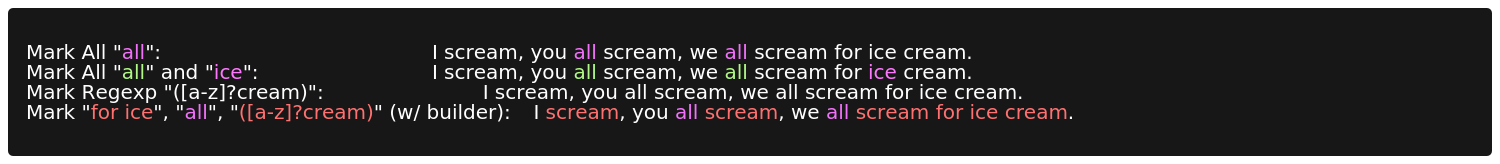
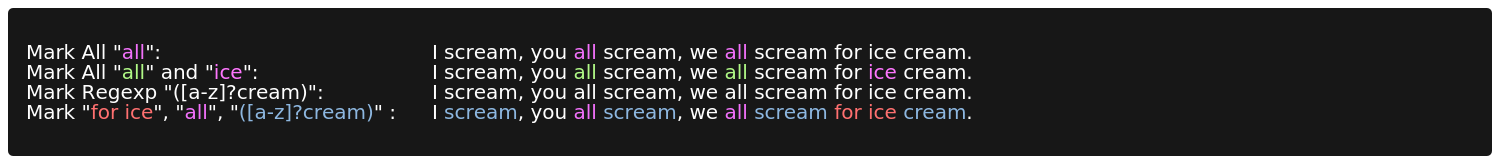
readme tidy up, log terminal images updated

Changed region(s): [[0.1533, 0.6402, 0.736, 0.7317], [0.276, 0.5183, 0.6747, 0.6098]]

diff --git a/examples/showoff/main.go b/examples/showoff/main.go
@@ -2,9 +2,10 @@ package main
 
 import (
 	"fmt"
+	"regexp"
+
 	"github.com/cyucelen/marker"
 	"github.com/fatih/color"
-	"regexp"
 )
 
 var magentaFg = color.New(color.FgMagenta)
@@ -30,16 +31,16 @@ func main() {
 
 	r, _ := regexp.Compile("([a-z]?cream)")
 	markedWithRegexp := marker.Mark(rhyme, marker.MatchRegexp(r), whiteFg.Add(color.BgHiBlue))
-	regexpExampleHeader := fmt.Sprintf("Mark Regexp \"%s\":\t\t\t\t", whiteFg.Add(color.BgHiBlue).Sprint("([a-z]?cream)"))
+	regexpExampleHeader := fmt.Sprintf("Mark Regexp \"%s\":\t\t\t", whiteFg.Add(color.BgHiBlue).Sprint("([a-z]?cream)"))
 	fmt.Println(regexpExampleHeader + markedWithRegexp)
 
 	b := &marker.MarkBuilder{}
 	markedWithBuilder := b.SetString(rhyme).
 		Mark(marker.MatchN("for ice", 1), redFg).
 		Mark(marker.MatchAll("all"), magentaFg).
-		Mark(marker.MatchRegexp(r), redFg.Add(color.BgHiWhite)).
+		Mark(marker.MatchRegexp(r), blueFg).
 		Build()
-	builderExampleHeader := fmt.Sprintf("Mark \"%s\", \"%s\", \"%s\" (w/ builder):\t",
-		color.New(color.FgRed).Sprint("for ice"), magentaFg.Sprint("all"), redFg.Add(color.BgHiWhite).Sprint("([a-z]?cream)"))
+	builderExampleHeader := fmt.Sprintf("Mark \"%s\", \"%s\", \"%s\" :\t",
+		color.New(color.FgRed).Sprint("for ice"), magentaFg.Sprint("all"), blueFg.Sprint("([a-z]?cream)"))
 	fmt.Println(builderExampleHeader + markedWithBuilder)
 }

diff --git a/examples/logtofile/main.go b/examples/logtofile/main.go
@@ -2,33 +2,51 @@ package main
 
 import (
 	"bufio"
+	"bytes"
+	"fmt"
 	"log"
 	"os"
+	"os/exec"
 
 	"github.com/cyucelen/marker"
 	"github.com/fatih/color"
 )
 
 var (
-	redFg  = color.New(color.FgRed)
-	blueFg = color.New(color.FgBlue)
+	magentaFg = color.New(color.FgMagenta)
+	blueFg    = color.New(color.FgBlue)
 )
 
 func main() {
-	f, _ := os.Create("/tmp/dat2")
-	defer f.Close()
+	f, _ := os.Create("/tmp/awesome.log")
 	w := bufio.NewWriter(f)
-	defer w.Flush()
 
 	writeMarker := marker.NewWriteMarker(w)
 
 	markRules := []marker.MarkRule{
 		{marker.MatchBracketSurrounded(), blueFg},
-		{marker.MatchAll("marker"), redFg},
+		{marker.MatchAll("marker"), magentaFg},
 	}
 
 	writeMarker.AddRules(markRules)
 
 	logger := log.New(writeMarker, "", 0)
-	logger.Println("[INFO] marker is working as expected")
+	logger.Println("[INFO] colorful logs even in files, marker to mark them all!")
+
+	w.Flush()
+	f.Close()
+
+	output := catFile("/tmp/awesome.log") // cat /tmp/dat2
+	fmt.Print(output)
+}
+
+func catFile(file string) string {
+	cmd := exec.Command("cat", file)
+	cmdOutput := &bytes.Buffer{}
+	cmd.Stdout = cmdOutput
+	err := cmd.Run()
+	if err != nil {
+		log.Fatalf("cmd.Run() failed with %s\n", err)
+	}
+	return string(cmdOutput.Bytes())
 }

diff --git a/README.md b/README.md
@@ -44,54 +44,54 @@ Marker has very simple and extensible way to get your strings colorful and brill
 
 #### MatchAll
 ```go
-  aristotleQuote := "The more you know, the more you realize you don't know."
-  emphasized := marker.Mark(aristotleQuote, marker.MatchAll("know"), color.New(color.FgRed))
-  fmt.Println(emphasized)
+aristotleQuote := "The more you know, the more you realize you don't know."
+emphasized := marker.Mark(aristotleQuote, marker.MatchAll("know"), color.New(color.FgRed))
+fmt.Println(emphasized)
 ```
 <img src="assets/png/matchall.png">
 
 #### MatchN
 ```go
-  boringLog := "[INFO] Nobody wants to read pale [INFO] tags."
-  brilliantLog := marker.Mark(boringLog, marker.MatchN("[INFO]", 1), color.New(color.FgBlue))
-  fmt.Println(brilliantLog)
+boringLog := "[INFO] Nobody wants to read pale [INFO] tags."
+brilliantLog := marker.Mark(boringLog, marker.MatchN("[INFO]", 1), color.New(color.FgBlue))
+fmt.Println(brilliantLog)
 ```
 <img src="assets/png/matchn.png">
 
 #### MatchRegexp
 
 ```go
-  rhyme := "I scream, you all scream, we all scream for ice cream."
-  r, _ := regexp.Compile("([a-z]?cream)")
-  careAboutCream := marker.Mark(rhyme, marker.MatchRegexp(r), color.New(color.FgYellow))
-  fmt.Println(careAboutCream)
+rhyme := "I scream, you all scream, we all scream for ice cream."
+r, _ := regexp.Compile("([a-z]?cream)")
+careAboutCream := marker.Mark(rhyme, marker.MatchRegexp(r), color.New(color.FgYellow))
+fmt.Println(careAboutCream)
 ```
 <img src="assets/png/matchregex.png">
 
 #### MatchSurrounded
 
 ```go
-	sentence := "I pull out things surrounded by abcWHOA COLORSdef"
-	markedSurrounded := marker.Mark(sentence, marker.MatchSurrounded("abc", "def"), magentaFg)
-	fmt.Println(markedSurrounded)
+sentence := "I pull out things surrounded by abcWHOA COLORSdef"
+markedSurrounded := marker.Mark(sentence, marker.MatchSurrounded("abc", "def"), magentaFg)
+fmt.Println(markedSurrounded)
 ```
 <img src="assets/png/matchsurrounded1.png">
 
 #### MatchBracketSurrounded
 
 ```go
-	sentence = "[INFO] This is what log lines look like"
-	markedSurrounded = marker.Mark(sentence, marker.MatchBracketSurrounded(), redFg)
-	fmt.Println(markedSurrounded)
+sentence = "[INFO] This is what log lines look like"
+markedSurrounded = marker.Mark(sentence, marker.MatchBracketSurrounded(), redFg)
+fmt.Println(markedSurrounded)
 ```
 <img src="assets/png/matchsurrounded2.png">
 
 #### MatchParensSurrounded
 
 ```go
-	sentence = "[ERROR] This is what (parens) lines look like"
-	markedSurrounded = marker.Mark(sentence, marker.MatchParensSurrounded(), blueFg)
-	fmt.Println(markedSurrounded)
+sentence = "[ERROR] This is what (parens) lines look like"
+markedSurrounded = marker.Mark(sentence, marker.MatchParensSurrounded(), blueFg)
+fmt.Println(markedSurrounded)
 ```
 <img src="assets/png/matchsurrounded3.png">
 
@@ -102,17 +102,17 @@ Marker has very simple and extensible way to get your strings colorful and brill
 If you want to mark different patterns in the same string, marker builder is neater way to do this.
 
 ```go
-  rhyme := "I scream, you all scream, we all scream for ice cream."
-  b := &marker.MarkBuilder{}
-  r, _ := regexp.Compile("([a-z]?cream)")
+rhyme := "I scream, you all scream, we all scream for ice cream."
+b := &marker.MarkBuilder{}
+r, _ := regexp.Compile("([a-z]?cream)")
 
-  markedWithBuilder := b.SetString(rhyme).
-    Mark(marker.MatchN("for ice", 1), color.New(color.FgRed)).
-    Mark(marker.MatchAll("all"), color.New(color.FgMagenta)).
-    Mark(marker.MatchRegexp(r), color.New(color.FgYellow)).
-    Build()
+markedWithBuilder := b.SetString(rhyme).
+  Mark(marker.MatchN("for ice", 1), color.New(color.FgRed)).
+  Mark(marker.MatchAll("all"), color.New(color.FgMagenta)).
+  Mark(marker.MatchRegexp(r), color.New(color.FgYellow)).
+  Build()
 
-  fmt.Println(markedWithBuilder)
+fmt.Println(markedWithBuilder)
 ```
 <img src="assets/png/builder.png">
 
@@ -135,32 +135,36 @@ logger := log.New(stdoutMarker, "", 0)
 logger.Println("[INFO] marker is working as expected")
 ```
 
-<img src="assets/logsimple.png">
+<img src="assets/png/log.png">
 
 ### Customize io.Writer out for log interface
 
 `marker` also allows you to specify the `io.Writer` that you want to send output to. This is useful if the logger is writing to somewhere other than `stdout` like a file.
 
 ```go
-f, _ := os.Create("/tmp/dat2") // file to log to
-defer f.Close()
+f, _ := os.Create("/tmp/awesome.log")
 w := bufio.NewWriter(f)
-defer w.Flush()
 
 writeMarker := marker.NewWriteMarker(w)
 
 markRules := []marker.MarkRule{
-  {marker.MatchBracketSurrounded(), color.New(color.FgBlue)},
-  {marker.MatchAll("marker"), color.New(color.FgRed)},
+  {marker.MatchBracketSurrounded(), blueFg},
+  {marker.MatchAll("marker"), magentaFg},
 }
 
 writeMarker.AddRules(markRules)
 
 logger := log.New(writeMarker, "", 0)
-logger.Println("[INFO] marker is working as expected")
+logger.Println("[INFO] colorful logs even in files, marker to mark them all!")
+
+w.Flush()
+f.Close()
+
+output := catFile("/tmp/awesome.log") // cat /tmp/dat2
+fmt.Print(output)
 ```
 
-<img src="assets/logtofile.png">
+<img src="assets/png/logtofile.png">
 
 ## Writing your custom Matcher
 
